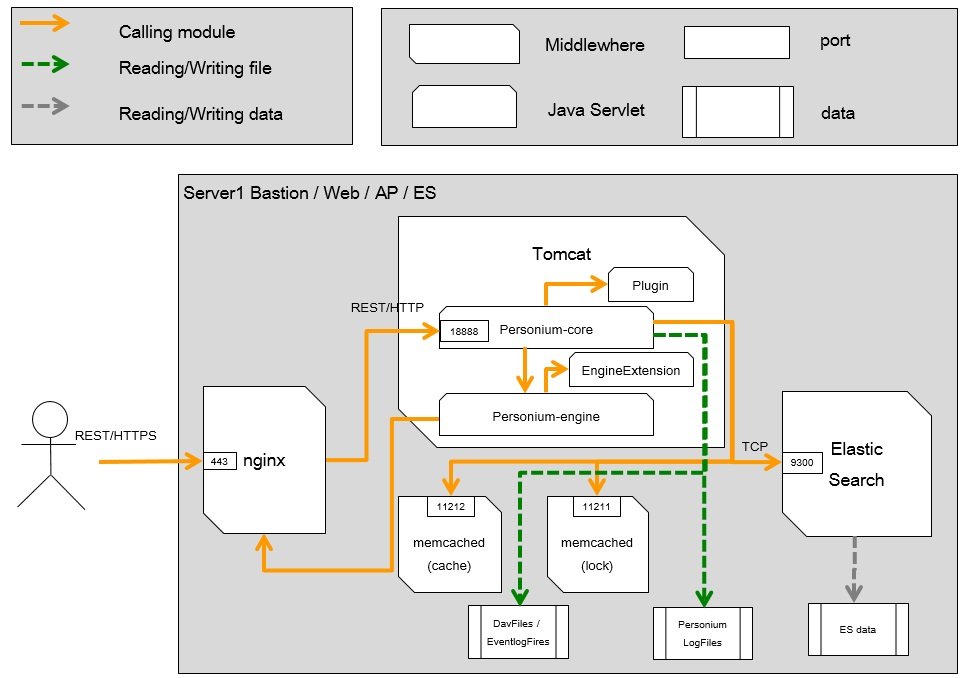
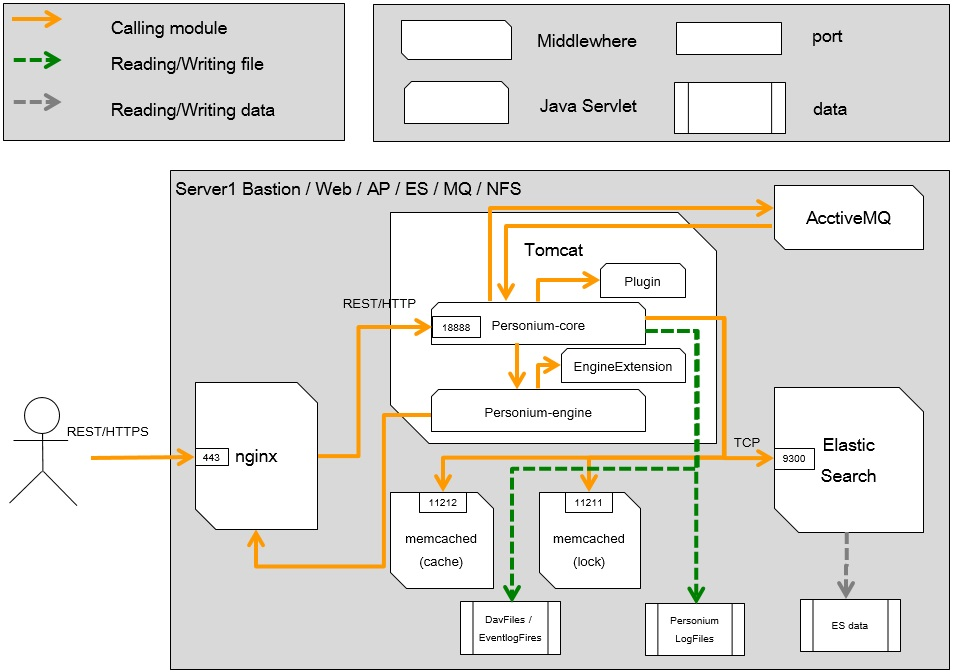
close #158

diff --git a/3-server_unit/README.md b/3-server_unit/README.md
@@ -13,7 +13,7 @@ This ansible is checking the operation with Personium version 1.5.2 later and Ce
 |**Servers**      |   **Role**      |   **MW**                           |  **default memory size** (*1) |   **AWS EC2 specs** (*2)|  
 |:----------------|:----------------|:-----------------------------------|:------------------------------|:-------------------------|
 | Server 1        |  Bastion,Web    | nginx                              |                               |      t2.micro            |
-| Server 2        |  AP,NFS         | tomcat(1280MB),memcached(1024MB*2) |  3328MB                       |      m3.medium           |
+| Server 2        |  AP,NFS,MQ         | tomcat(1280MB),memcached(1024MB*2),ActiveMQ() |  3328MB                       |      m3.medium           |
 | Server 3        |  ES             | Elasticsearch(3328MB)              |  3328MB                       |     m3.medium            |
 
 (*1) : Required default memory size. Memory size of each MW configuration file could be modified

diff --git a/1-server_unit/README.md b/1-server_unit/README.md
@@ -12,7 +12,7 @@ This ansible is checking the operation with Personium version 1.5.2 later and Ce
 
 |**Servers**      |   **Role**      |   **MW**                           |  **default memory size** (*1) |   **AWS EC2 specs** (*2)|  
 |:----------------|:----------------|:-----------------------------------|:------------------------------|:-------------------------|
-| Server 1        |  Bastion,Web,AP,ES    | nginx,tomcat(768MB),memcached(256MB*2),Elasticsearch(1875MB)                     |3155MB                         |      m3.medium            |
+| Server 1        |  Bastion,Web,AP,ES,MQ,NFS    | nginx,tomcat(768MB),memcached(256MB*2),Elasticsearch(1875MB),ActiveMQ                     |3155MB                         |      m3.medium            |
 
 (*1) : Required default memory size. Memory size of each MW configuration file could be modified
 

diff --git a/README.md b/README.md
@@ -19,6 +19,7 @@ Although you may construct the Personium unit without using the setup tool, but 
 | `Web`        |  Required        | Reverse proxy server, contains Global IP and also should be accessible to the internet |
 | `AP`         |  Required        | Application server, where Personium will be executed                                |
 | `ES`         |  Required        | server to operate `ElasticSearch`                                                      |
+| `MQ`         |  Required        | server to operate `Message Queue`.|
 | `NFS`        |  Required        | server to operate `Network File System (NFS)`.                                         |
 | `Bastion`    |  Optional        | Bastion server. Used to execute ansible and to connect other servers by ssh.           |
 
